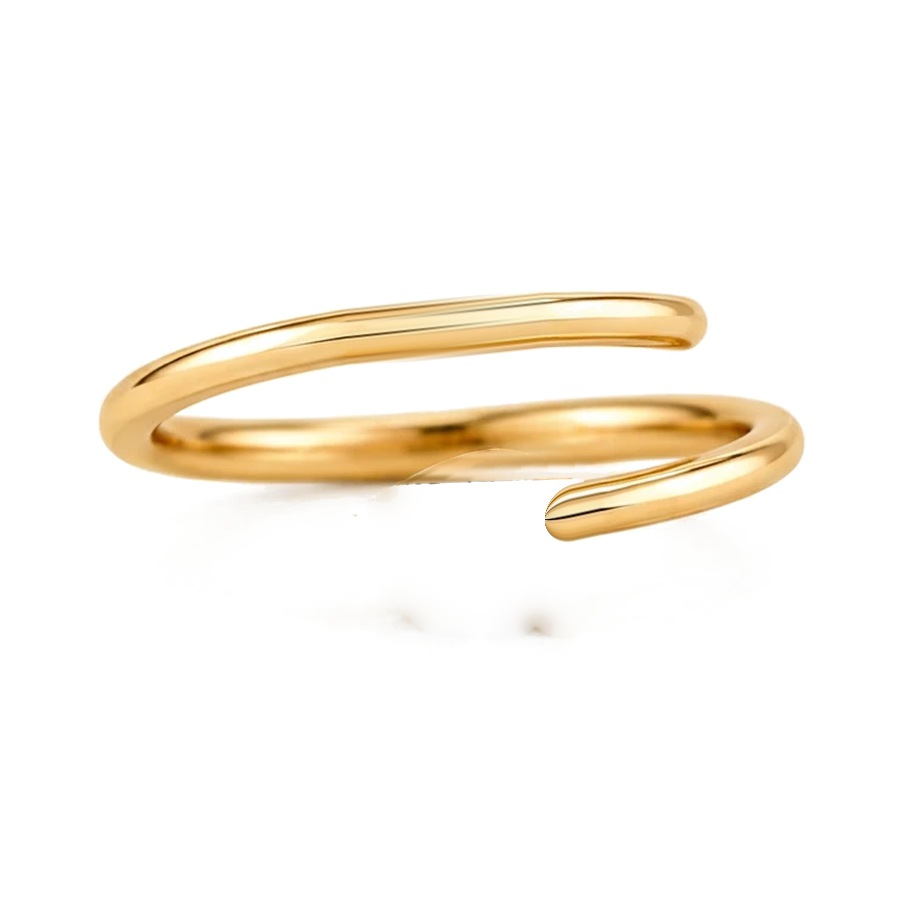
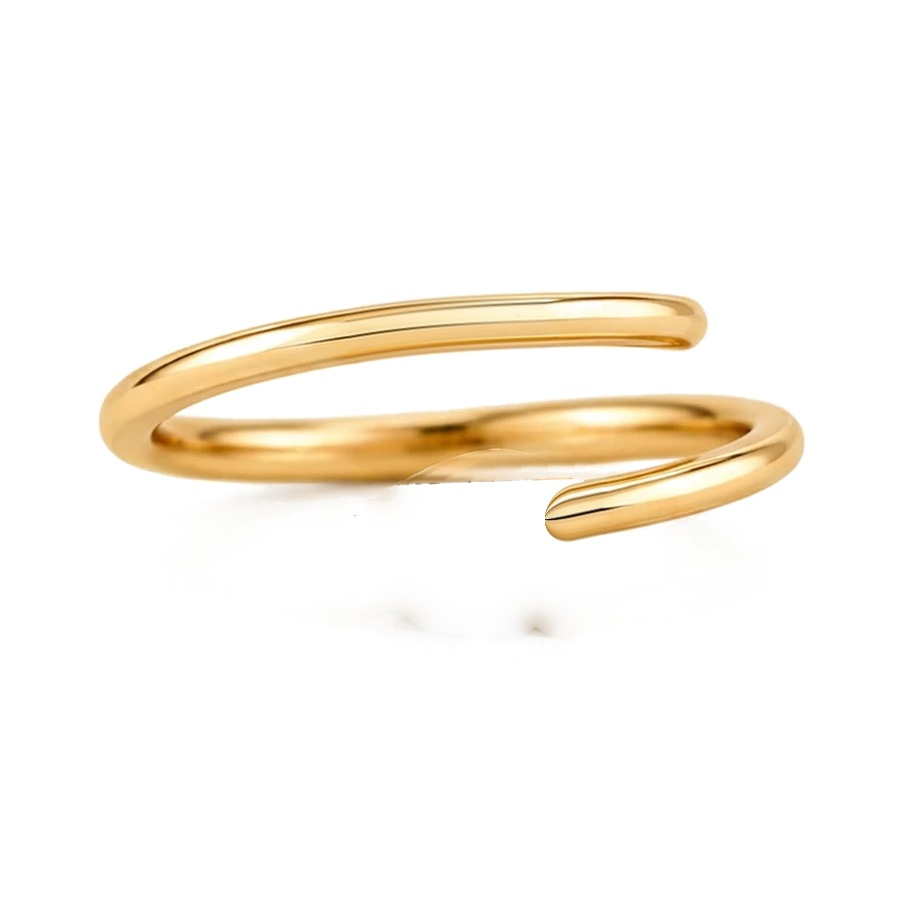
1-wrap: top band is a smooth arc where its stone was; birthstones 20% smaller

Changed region(s): [[0.4044, 0.3111, 0.5911, 0.4044]]

diff --git a/index.html b/index.html
@@ -320,18 +320,18 @@ const MAX_WRAPS = 5;
    Measured on the 900px photo: stones = [x, y, twinX, twinY] per wrap, top wrap first.
    The bottom stone goes where the photo's pear sat: bottom = photo pixels per sheet unit; seat = [the pear's right edge,
    the wire's centre there]; top = the pear's top edge; drop = how far below the wire its centre hung, as a share of its height. */
-const STONE_R = 43;
+const STONE_R = 34.4;
 const RINGS = {
   1:{bottom:1.56, seat:[589,509], top:454, drop:0.19,
-     stones:[[446,327,543,317]]},
+     stones:[[446,327,523,319]]},
   2:{bottom:1.5, seat:[572,602], top:548, drop:0.2,
-     stones:[[436,304,533,297],[278,444,375,428]]},
+     stones:[[436,304,513,298],[278,444,355,432]]},
   3:{bottom:1.56, seat:[567,574], top:535, drop:0.28,
-     stones:[[418,226,515,217],[274,368,371,349],[541,454,444,463]]},
+     stones:[[418,226,495,219],[274,368,351,353],[541,454,464,461]]},
   4:{bottom:1.52, seat:[566,619], top:554, drop:0.12,
-     stones:[[416,219,513,212],[261,334,358,320],[537,415,440,420],[325,521,422,512]]},
+     stones:[[416,219,493,213],[261,334,338,323],[537,415,460,419],[325,521,402,514]]},
   5:{bottom:1.49, seat:[560,670], top:597, drop:0.1,
-     stones:[[431,164,528,162],[262,282,359,268],[542,367,445,370],[328,475,425,465],[649,556,552,559]]},
+     stones:[[431,164,508,163],[262,282,339,271],[542,367,465,370],[328,475,405,467],[649,556,572,559]]},
 };
 /* In a store, the store's page hands over SHOP: its image addresses, its cart, and the price of each ring.
    On its own (no SHOP) the page shows no prices and sends a request by email. */
@@ -342,7 +342,7 @@ const PHOTO = 900, STONE_BOX = 3;      // a stone image is 3x its stone's radius
 
 const stoneSrc  = (i, metal) => asset('img/stones/' + METALS[metal].dir + '/' + STONE_BANK[i].file);
 const seatSrc   = metal => asset('img/stones/' + METALS[metal].dir + '/seat.png');
-const ringSrc   = (n, metal) => asset('img/rings/' + METALS[metal].dir + '/ring-' + n + '.jpg?v=8');   // bump v when the photos change, so no one sees old photos under new placements
+const ringSrc   = (n, metal) => asset('img/rings/' + METALS[metal].dir + '/ring-' + n + '.jpg?v=9');   // bump v when the photos change, so no one sees old photos under new placements
 const bottomSrc = (cut, size, metal) => asset('img/bottom/' + METALS[metal].dir + '/' + cut + '-' + size + '.png');
 
 /* ============================ STATE ============================

diff --git a/tools/make_ring_photos.py b/tools/make_ring_photos.py
@@ -52,8 +52,32 @@ def changed(a,b,near=None,thr=3):
         x0,y0,x1,y1=near; k=np.zeros_like(m); k[max(0,y0):y1,max(0,x0):x1]=True; m&=k
     m=ndimage.binary_dilation(ndimage.binary_closing(m,iterations=2),iterations=3)
     return ndimage.gaussian_filter(m.astype(float),1.4)
+def erase_curved(a,cx,cy,r,pad=1.8):
+    """as erase_round, but the bridge follows a smooth arc: it leaves each side at that side's own slope"""
+    H,W,_=a.shape; xL=int(round(cx-pad*r)); xR=int(round(cx+pad*r)); half=int(1.5*r); Wd=float(xR-xL)
+    colL=a[:,xL-2:xL+1].mean(1); colR=a[:,xR:xR+3].mean(1)
+    def shift(A,B,lim):
+        u0=int(cy-1.0*r); u1=int(cy+1.0*r); best=None
+        for dd in range(-lim,lim+1):
+            e=np.abs(A[u0:u1]-B[u0+dd:u1+dd]).mean()
+            if best is None or e<best[0]: best=(e,dd)
+        return best[1]
+    sl=shift(a[:,xL-29:xL-26].mean(1),a[:,xL-1:xL+2].mean(1),12)/28.0; sr=shift(a[:,xR-1:xR+2].mean(1),a[:,xR+27:xR+30].mean(1),12)/28.0
+    D=shift(colL,colR,45)                      # how much higher or lower the wire sits on the right than on the left
+    out=a.copy(); ys=np.arange(H)
+    for x in range(xL,xR+1):
+        t=(x-xL)/Wd; ts=t*t*(3-2*t)
+        off=(t**3-2*t*t+t)*sl*Wd+(-2*t**3+3*t*t)*D+(t**3-t*t)*sr*Wd       # the wire's centre here, relative to the left edge
+        def samp(col,d):
+            yy=np.clip(ys-d,0,H-1); lo=np.floor(yy).astype(int); hi=np.minimum(lo+1,H-1); f=(yy-lo)[:,None]
+            return col[lo]*(1-f)+col[hi]*f
+        new=samp(colL,off)*(1-ts)+samp(colR,off-D)*ts
+        c=cy+off-D/2.0
+        w=np.clip((half-np.abs(ys-c))/8.0,0,1)[:,None]
+        out[:,x]=a[:,x]*(1-w)+new*w
+    return out,(xL,xR,cy-D/2.0,cy+D/2.0)
 rounds=json.load(open('rounds.json')); bare_json=json.load(open('bare.json')); table={}
-STONE_R=43      # every Stone Bank stone is drawn at this radius, on every wrap of every ring
+STONE_R=34.4      # every Stone Bank stone is drawn at this radius, on every wrap of every ring
 for f in glob.glob(OUT+'*/ring-*.jpg')+glob.glob(OUT+'*/lift-*.png')+glob.glob(OUT+'*/photo-*.jpg'): os.remove(f)
 from erase import erase_round
 for n in range(1,6):
@@ -64,7 +88,7 @@ for n in range(1,6):
     # one sprite per stone: the photo with only that stone lifted
     lifts=[]; masks=[]
     for s in st:
-        one,(xL,xR,cL,cR)=erase_round(std.copy(),s['x'],s['y'],s['r'])
+        one,(xL,xR,cL,cR)=(erase_curved if n==1 else erase_round)(std.copy(),s['x'],s['y'],s['r'])    # the 1-wrap's wire bends under its stone: a straight bridge left a kink
         m=changed(std,one,(xL-6,int(min(cL,cR)-1.5*s['r'])-10,xR+7,int(max(cL,cR)+1.5*s['r'])+11),thr=22); lifts.append((one,m)); masks.append(m)
     # every stone comes from the Stone Bank, so the page's photo is the ring with its own stones lifted off: each one
     # replaced only inside its own footprint (the same small covers as before), the rest of the photo untouched
